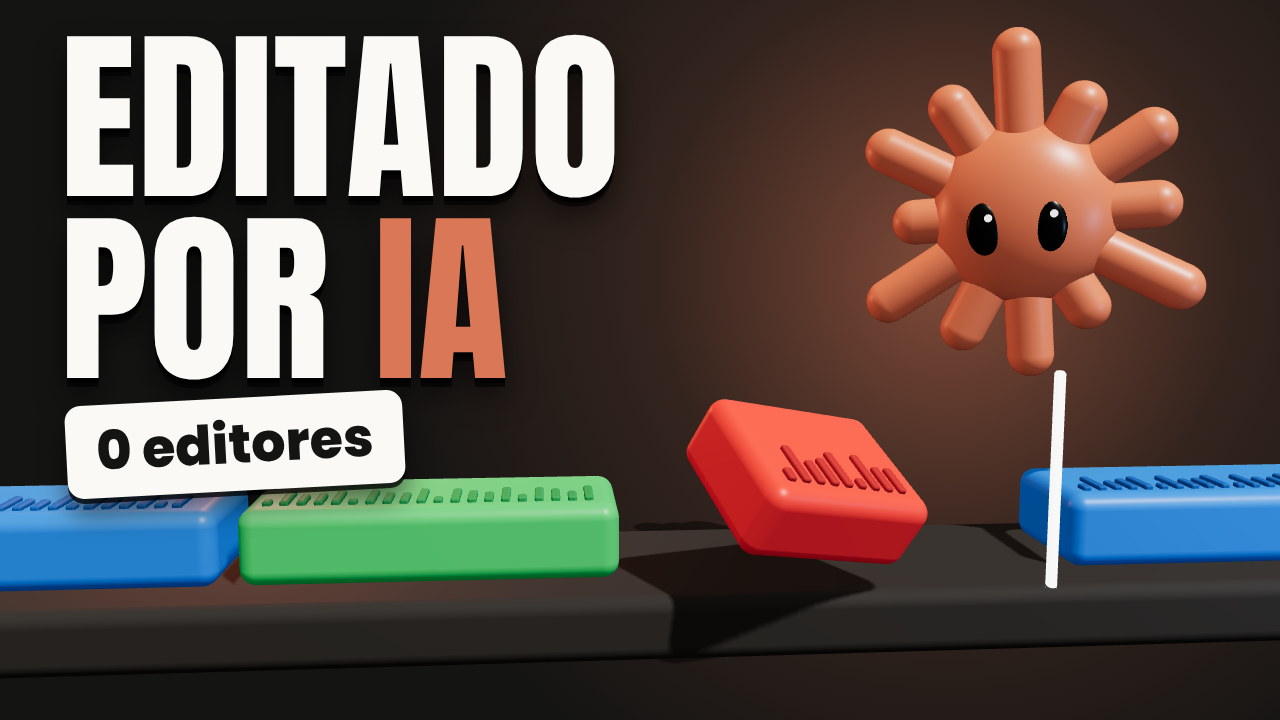
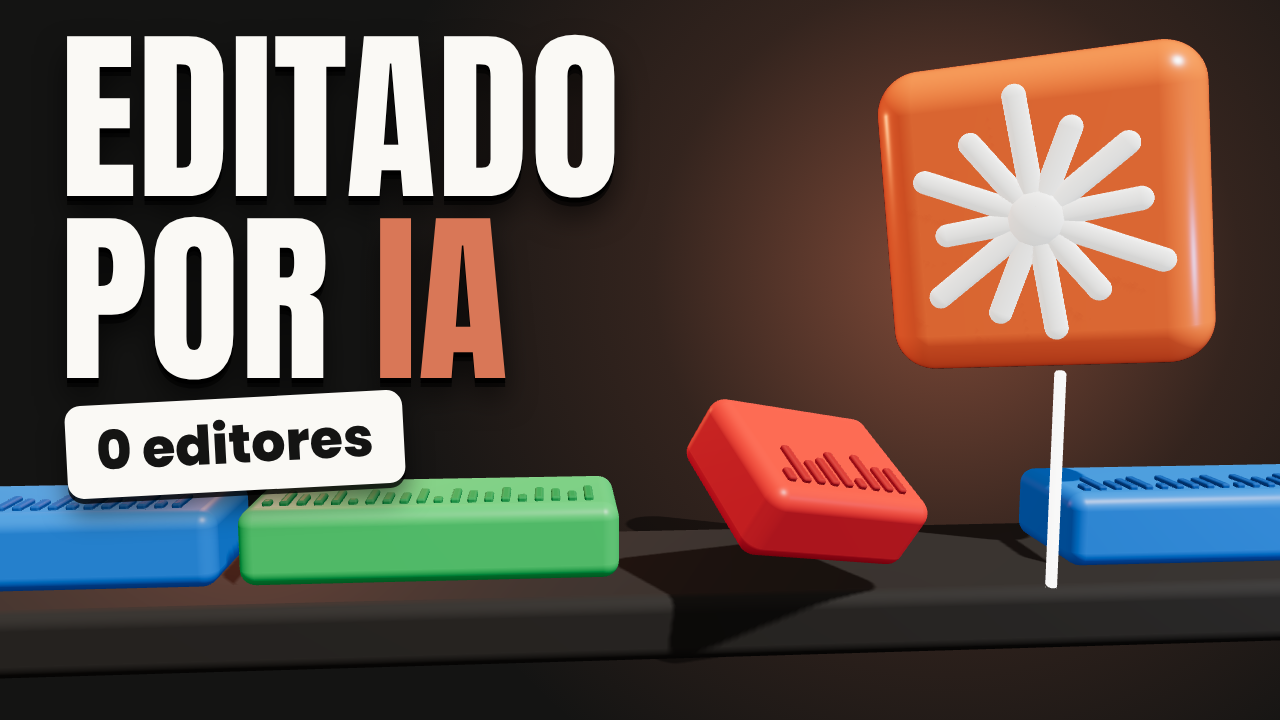
Personagem vira bloco 3D com a estrela em relevo e capas refeitas
Claude-Session: https://claude.ai/code/session_01Vzt37Nfesv3FfTUpMH7K9L

Changed region(s): [[0.6562, 0.0306, 0.9688, 0.5194], [0.7188, 0.7028, 0.8125, 0.7639], [0.8125, 0.6417, 0.8438, 0.6722]]

diff --git a/video-claude-editor/src/Capa.tsx b/video-claude-editor/src/Capa.tsx
@@ -4,7 +4,7 @@ import {ThreeCanvas} from '@remotion/three';
 import * as THREE from 'three';
 import './fontes';
 import {cores, vivas, fonte, fonteTitulo} from './tema';
-import {Personagem3D} from './tres/Personagem3D';
+import {Icone3D} from './tres/Icone3D';
 import {Bloco, Clipe3D, Luzes, ChaoSombra} from './tres/pecas';
 import {Camera} from './tres/Camera';
 
@@ -62,7 +62,7 @@ export const CapaA: React.FC = () => (
       <Clipe3D larg={4.6} cor={vivas.azul} posicao={[4.75, 0.2, 0]} semente={4} />
       {/* agulha luminosa */}
       <Bloco tam={[0.08, 2.0, 0.08]} cor={cores.creme} posicao={[2.15, 0.55, 0.9]} raio={0.03} emissivo={cores.creme} intensidade={2.2} sombra={false} />
-      <Personagem3D posicao={[2.15, 2.72, 0.1]} rotacao={[0.1, -0.42, 0.12]} escala={1.28} olhar={[-0.7, -0.6]} />
+      <Icone3D posicao={[2.25, 2.72, 0.2]} rotacao={[0.12, -0.5, 0.14]} escala={1.12} />
     </Tela3D>
     <Titulo>
       <div>EDITADO</div>
@@ -113,7 +113,7 @@ export const CapaB: React.FC = () => (
       ))}
       {/* divisa luminosa */}
       <Bloco tam={[0.09, 9, 0.09]} cor={cores.creme} posicao={[0, 3, 0]} raio={0.03} emissivo={cores.creme} intensidade={2.4} sombra={false} />
-      <Personagem3D posicao={[0, 1.6, 1.6]} rotacao={[0.05, 0.3, -0.1]} escala={1.5} olhar={[0.7, 0.2]} />
+      <Icone3D posicao={[0, 1.75, 1.6]} rotacao={[0.08, 0.38, -0.1]} escala={1.3} />
     </Tela3D>
     <div style={{position: 'absolute', left: 0, width: 640, top: 14, textAlign: 'center', fontFamily: fonteTitulo, fontSize: 168, color: '#b9b6b0', textShadow: sombraTexto, letterSpacing: 2}}>BRUTO</div>
     <div style={{position: 'absolute', left: 640, width: 640, top: 14, textAlign: 'center', fontFamily: fonteTitulo, fontSize: 168, color: cores.laranja, textShadow: sombraTexto, letterSpacing: 2}}>CLAUDE</div>
@@ -164,7 +164,7 @@ export const CapaC: React.FC = () => (
       <Filme posicao={[-3.05, -0.55, 0]} rotacao={[0.1, 0.25, -0.2]} quadros={[vivas.azul, vivas.verde, vivas.azul, vivas.vermelho]} />
       <Filme posicao={[5.2, -0.2, 0.2]} rotacao={[0.1, -0.2, 0.3]} quadros={[vivas.verde, vivas.azul]} />
       <Tesoura posicao={[1.95, 0.75, 1.2]} rotacao={[0, -0.15, -1.72]} escala={0.95} />
-      <Personagem3D posicao={[4.35, 2.75, 0.6]} rotacao={[0.1, -0.4, 0.1]} escala={1.35} olhar={[-0.8, -0.8]} />
+      <Icone3D posicao={[4.3, 2.7, 0.6]} rotacao={[0.12, -0.5, 0.14]} escala={1.15} />
     </Tela3D>
     <Titulo tam={200} left={56} top={22}>
       <div>

diff --git a/video-claude-editor/src/tres/Icone3D.tsx b/video-claude-editor/src/tres/Icone3D.tsx
@@ -1,0 +1,45 @@
+import React, {useMemo} from 'react';
+import * as THREE from 'three';
+import {RoundedBoxGeometry} from 'three/examples/jsm/geometries/RoundedBoxGeometry.js';
+import {cores} from '../tema';
+
+// Personagem principal: bloco laranja de cantos arredondados com a estrela clara em relevo.
+// Desenho próprio, feito para lembrar o ícone do Claude.
+const RAIOS = [0.8, 0.62, 0.76, 0.58, 0.8, 0.64, 0.74, 0.6, 0.8, 0.62, 0.72, 0.6];
+
+export const Icone3D: React.FC<{
+  posicao?: [number, number, number];
+  rotacao?: [number, number, number];
+  escala?: number;
+  tempo?: number;
+  brilho?: number; // quanto a estrela emite luz
+}> = ({posicao = [0, 0, 0], rotacao = [0, 0, 0], escala = 1, tempo = 0, brilho = 0.35}) => {
+  const corpo = useMemo(() => new RoundedBoxGeometry(2.2, 2.2, 0.62, 8, 0.3), []);
+  const matCorpo = useMemo(() => new THREE.MeshPhysicalMaterial({color: '#ee7444', roughness: 0.3, clearcoat: 0.8, clearcoatRoughness: 0.25, emissive: '#c2410c', emissiveIntensity: 0.28}), []);
+  const matEstrela = useMemo(
+    () => new THREE.MeshStandardMaterial({color: cores.creme, roughness: 0.35, emissive: cores.creme, emissiveIntensity: brilho}),
+    [brilho]
+  );
+  // cantos bem redondos: escala o bloco para o raio parecer maior nas faces
+  return (
+    <group position={posicao} rotation={rotacao} scale={escala}>
+      <mesh geometry={corpo} material={matCorpo} castShadow receiveShadow />
+      <group position={[0, 0, 0.31]}>
+        {RAIOS.map((r, i) => {
+          const ang = (i / RAIOS.length) * Math.PI * 2 + 0.12;
+          const comp = r + Math.sin(tempo / 8 + i * 1.7) * 0.015;
+          return (
+            <group key={i} rotation={[0, 0, ang]}>
+              <mesh material={matEstrela} position={[0, 0.1 + comp / 2, 0]} scale={[1, 1, 0.45]} castShadow>
+                <capsuleGeometry args={[0.082, comp - 0.1, 8, 16]} />
+              </mesh>
+            </group>
+          );
+        })}
+        <mesh material={matEstrela} scale={[1, 1, 0.45]}>
+          <sphereGeometry args={[0.2, 24, 16]} />
+        </mesh>
+      </group>
+    </group>
+  );
+};

diff --git a/video-claude-editor/PLANO.md b/video-claude-editor/PLANO.md
@@ -81,7 +81,7 @@ Ferramentas que o vídeo indica: FFmpeg, Whisper, auto-editor, Remotion e yt-dlp
 
 ### Personagem
 
-Desenho próprio, inspirado no símbolo do Claude: uma estrela laranja de pontas arredondadas, com dois olhos simples e pequenas mãos que aparecem só quando ele pega algo. Fundo escuro, laranja como cor principal. A logo oficial aparece apenas nos momentos em que o produto é citado pelo nome, e a descrição do vídeo informa que o canal não tem ligação com a Anthropic.
+Definido pelo Cristian em 23/11/2026, com base em capas de referência que ele enviou: um bloco 3D laranja de cantos arredondados, brilhante, com a estrela clara em relevo na frente. Sem olhos e sem pontas soltas, porque a versão anterior parecia um vírus. Ele se expressa pelo movimento: inclina, pula, gira e brilha. O desenho é próprio, feito para lembrar o ícone do Claude, e a descrição do vídeo informa que o canal não tem ligação com a Anthropic.
 
 ## 6. Organização dos arquivos (modelo de dados)
 

diff --git a/video-claude-editor/publicacao.md b/video-claude-editor/publicacao.md
@@ -16,9 +16,9 @@ O título 2 passa de 70 caracteres e pode aparecer cortado em algumas telas. A p
 
 | Opção | Arquivo | Ideia | Texto |
 |---|---|---|---|
-| A | capa/capa-a.png | Personagem em cima da linha do tempo, com o trecho vermelho cortado caindo | EDITADO POR IA, 0 editores |
-| B | capa/capa-b.png | Metade cinza com clipes bagunçados, metade colorida com clipes arrumados, personagem na divisa | BRUTO, CLAUDE |
-| C | capa/capa-c.png | Personagem, tesoura e tira de filme cortada | 5 PASSOS, para editar com IA |
+| A | capa/capa-a.png | Bloco do Claude em cima da linha do tempo, com o trecho vermelho cortado caindo | EDITADO POR IA, 0 editores |
+| B | capa/capa-b.png | Metade cinza com clipes bagunçados, metade colorida com clipes arrumados, bloco do Claude na divisa | BRUTO, CLAUDE |
+| C | capa/capa-c.png | Bloco do Claude, tesoura e tira de filme cortada | 5 PASSOS, para editar com IA |
 
 Todas em 1280x720, em 3D, geradas por código em `src/Capa.tsx`.
 
